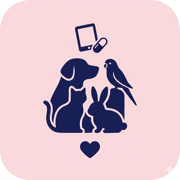
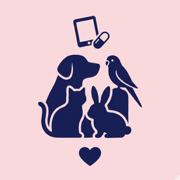
fix: PWAキャッシュ＋検査登録＋アイコン余白の複数修正 (#1114)
- public/sw.js: /api/schedules/today 等の読み取り系を network-first に変更 (mutation 後の表示が即時反映されない問題を修正)。CACHE_VERSION を v2 に bump し旧キャッシュは activate で破棄
- src/lib/api-helpers.ts: MAX_BODY_SIZE を 100KB → 2MB に拡大 (検査記録の画像 base64 が 100KB を超え 413 で silent failure していた)
- src/app/api/examinations/route.ts: POST 時に imageData を usecase に渡し漏れていたのを修正
- src/components/examinations/ExaminationForm.tsx: onSubmit を await し、エラー時は赤帯で表示。送信中は disable
- src/app/icon.{png,svg} / apple-icon.png / favicon.ico / public/icon.* : 周囲の白余白を sips で 460/512 比率にトリミングしてピンク角丸が大きく見えるよう調整。SVG も新画像で再生成
- src/app/{login,signup,forgot-password,reset-password}/page.tsx: アイコン参照を /icon.png → /icon.svg に変更し unoptimized に (Next.js 画像最適化を経由しない=PWAキャッシュとも相性◎)
- public/icon.svg: PWA manifest が参照できる場所にコピー

diff --git a/src/components/examinations/ExaminationForm.tsx b/src/components/examinations/ExaminationForm.tsx
@@ -15,7 +15,7 @@ export interface ExaminationFormData {
 
 interface ExaminationFormProps {
   members: Member[];
-  onSubmit: (data: ExaminationFormData) => void;
+  onSubmit: (data: ExaminationFormData) => Promise<void> | void;
   onCancel?: () => void;
   initialData?: {
     memberId: string;
@@ -72,6 +72,8 @@ export const ExaminationForm: React.FC<ExaminationFormProps> = ({ members, onSub
   const [notes, setNotes] = useState(initialData?.notes || '');
   const [imageData, setImageData] = useState<string | null>(initialData?.imageData ?? null);
   const [imageError, setImageError] = useState('');
+  const [submitError, setSubmitError] = useState('');
+  const [isSubmitting, setIsSubmitting] = useState(false);
 
   const handleImageChange = async (e: React.ChangeEvent<HTMLInputElement>) => {
     const file = e.target.files?.[0];
@@ -94,25 +96,34 @@ export const ExaminationForm: React.FC<ExaminationFormProps> = ({ members, onSub
     e.target.value = '';
   };
 
-  const handleSubmit = (e: React.FormEvent) => {
+  const handleSubmit = async (e: React.FormEvent) => {
     e.preventDefault();
     if (!memberId || !examinationType.trim() || !examinedAt) return;
+    if (isSubmitting) return;
 
-    onSubmit({
-      memberId,
-      examinationType: examinationType.trim(),
-      examinedAt: new Date(examinedAt).toISOString(),
-      nextScheduledDate: nextScheduledDate ? new Date(nextScheduledDate).toISOString() : undefined,
-      notes: notes.trim() || undefined,
-      imageData: imageData ?? undefined,
-    });
+    setSubmitError('');
+    setIsSubmitting(true);
+    try {
+      await onSubmit({
+        memberId,
+        examinationType: examinationType.trim(),
+        examinedAt: new Date(examinedAt).toISOString(),
+        nextScheduledDate: nextScheduledDate ? new Date(nextScheduledDate).toISOString() : undefined,
+        notes: notes.trim() || undefined,
+        imageData: imageData ?? undefined,
+      });
 
-    if (!initialData) {
-      setExaminationType('');
-      setExaminedAt(new Date().toISOString().split('T')[0]);
-      setNextScheduledDate('');
-      setNotes('');
-      setImageData(null);
+      if (!initialData) {
+        setExaminationType('');
+        setExaminedAt(new Date().toISOString().split('T')[0]);
+        setNextScheduledDate('');
+        setNotes('');
+        setImageData(null);
+      }
+    } catch (err) {
+      setSubmitError(err instanceof Error ? err.message : '登録に失敗しました');
+    } finally {
+      setIsSubmitting(false);
     }
   };
 
@@ -227,18 +238,26 @@ export const ExaminationForm: React.FC<ExaminationFormProps> = ({ members, onSub
         {imageError && <p className="text-xs text-red-500 mt-1">{imageError}</p>}
       </div>
 
+      {submitError && (
+        <p className="text-sm text-red-600 bg-red-50 border border-red-200 rounded-lg px-3 py-2">
+          {submitError}
+        </p>
+      )}
+
       <div className="flex space-x-2">
         <button
           type="submit"
-          className="flex-1 bg-primary-600 text-white py-2 px-4 rounded-lg hover:bg-primary-700 transition-colors font-medium"
+          disabled={isSubmitting}
+          className="flex-1 bg-primary-600 text-white py-2 px-4 rounded-lg hover:bg-primary-700 transition-colors font-medium disabled:opacity-60 disabled:cursor-not-allowed"
         >
-          {initialData ? '更新する' : '登録する'}
+          {isSubmitting ? '送信中...' : initialData ? '更新する' : '登録する'}
         </button>
         {onCancel && (
           <button
             type="button"
             onClick={onCancel}
-            className="flex-1 bg-gray-200 text-gray-700 py-2 px-4 rounded-lg hover:bg-gray-300 transition-colors font-medium"
+            disabled={isSubmitting}
+            className="flex-1 bg-gray-200 text-gray-700 py-2 px-4 rounded-lg hover:bg-gray-300 transition-colors font-medium disabled:opacity-60"
           >
             キャンセル
           </button>

diff --git a/public/sw.js b/public/sw.js
@@ -1,17 +1,18 @@
 /* HealthFamily Service Worker
  *
  * 役割:
- *  - PWAインストール要件を満たす(install/fetch ハンドラ)
- *  - 静的アセットのキャッシュ
- *  - "今日の予定" APIを stale-while-revalidate でキャッシュ → 圏外でも直近データ閲覧可
- *  - GET 以外、認証ページ、Server Action 等は素通し
+ *  - PWAインストール要件を満たす (install/fetch ハンドラ)
+ *  - 静的アセットを cache-first で配信
+ *  - "今日の予定" APIなど読み取り系は network-first でキャッシュは
+ *    オフライン時のフォールバックとしてのみ使用 → mutation 後の表示が即時に反映される
+ *  - GET 以外, 認証, mutation 系 API は素通し
  */
 
-const CACHE_VERSION = 'health-family-v1';
+const CACHE_VERSION = 'health-family-v2';
 const STATIC_CACHE = `${CACHE_VERSION}-static`;
 const RUNTIME_CACHE = `${CACHE_VERSION}-runtime`;
 
-const STATIC_ASSETS = ['/', '/icon.png', '/apple-icon.png', '/manifest.webmanifest'];
+const STATIC_ASSETS = ['/', '/icon.svg', '/icon.png', '/apple-icon.png', '/manifest.webmanifest'];
 
 self.addEventListener('install', (event) => {
   event.waitUntil(
@@ -35,7 +36,12 @@ self.addEventListener('activate', (event) => {
   self.clients.claim();
 });
 
-const isCacheableApi = (url) => url.pathname === '/api/schedules/today';
+const isCacheableApi = (url) =>
+  url.pathname === '/api/schedules/today' ||
+  url.pathname === '/api/schedules/missed' ||
+  url.pathname === '/api/medications/alerts' ||
+  url.pathname === '/api/records/stats';
+
 const isAuthRoute = (url) =>
   url.pathname.startsWith('/api/auth/') ||
   url.pathname === '/login' ||
@@ -54,19 +60,20 @@ self.addEventListener('fetch', (event) => {
 
   if (url.pathname.startsWith('/api/')) {
     if (!isCacheableApi(url)) return;
+    // network-first: 通常はネットワーク, 失敗時のみキャッシュにフォールバック
     event.respondWith(
       (async () => {
-        const cache = await caches.open(RUNTIME_CACHE);
-        const networkPromise = fetch(request)
-          .then((response) => {
-            if (response && response.ok) {
-              cache.put(request, response.clone()).catch(() => undefined);
-            }
-            return response;
-          })
-          .catch(() => undefined);
-        const cached = await cache.match(request);
-        return cached || (await networkPromise) || Response.error();
+        try {
+          const response = await fetch(request);
+          if (response && response.ok) {
+            const cache = await caches.open(RUNTIME_CACHE);
+            cache.put(request, response.clone()).catch(() => undefined);
+          }
+          return response;
+        } catch {
+          const cached = await caches.match(request);
+          return cached || Response.error();
+        }
       })(),
     );
     return;

diff --git a/src/__tests__/components/examinations/ExaminationForm.test.tsx b/src/__tests__/components/examinations/ExaminationForm.test.tsx
@@ -1,5 +1,5 @@
 import { describe, it, expect, vi, beforeEach } from 'vitest';
-import { render, screen, fireEvent } from '@testing-library/react';
+import { render, screen, fireEvent, waitFor } from '@testing-library/react';
 import { ExaminationForm } from '@/components/examinations/ExaminationForm';
 import { Member } from '@/domain/entities/Member';
 
@@ -85,11 +85,13 @@ describe('ExaminationForm', () => {
     expect(screen.getByDisplayValue('CT検査')).toBeInTheDocument();
   });
 
-  it('送信後にフォームがリセットされる（新規登録時）', () => {
+  it('送信後にフォームがリセットされる（新規登録時）', async () => {
     render(<ExaminationForm members={members} onSubmit={mockOnSubmit} />);
     fireEvent.change(screen.getByLabelText('メンバー'), { target: { value: 'member-1' } });
     fireEvent.change(screen.getByLabelText('検査の種類'), { target: { value: 'テスト' } });
     fireEvent.click(screen.getByText('登録する'));
-    expect((screen.getByLabelText('検査の種類') as HTMLInputElement).value).toBe('');
+    await waitFor(() => {
+      expect((screen.getByLabelText('検査の種類') as HTMLInputElement).value).toBe('');
+    });
   });
 });

diff --git a/src/app/forgot-password/page.tsx b/src/app/forgot-password/page.tsx
@@ -42,7 +42,7 @@ export default function ForgotPassword() {
     <div className="min-h-screen flex items-center justify-center bg-pink-50/30 px-4">
       <div className="max-w-md w-full space-y-8">
         <div className="text-center">
-          <Image src="/icon.png" alt="HealthFamily" width={80} height={80} className="mx-auto mb-2" />
+          <Image src="/icon.svg" alt="HealthFamily" width={80} height={80} className="mx-auto mb-2" unoptimized />
           <h1 className="text-3xl font-bold text-primary-600">HealthFamily</h1>
           <p className="mt-2 text-gray-500">パスワードの再設定</p>
         </div>

diff --git a/src/app/reset-password/page.tsx b/src/app/reset-password/page.tsx
@@ -71,7 +71,7 @@ function ResetPasswordContent() {
     <div className="min-h-screen flex items-center justify-center bg-pink-50/30 px-4">
       <div className="max-w-md w-full space-y-8">
         <div className="text-center">
-          <Image src="/icon.png" alt="HealthFamily" width={80} height={80} className="mx-auto mb-2" />
+          <Image src="/icon.svg" alt="HealthFamily" width={80} height={80} className="mx-auto mb-2" unoptimized />
           <h1 className="text-3xl font-bold text-primary-600">HealthFamily</h1>
           <p className="mt-2 text-gray-500">新しいパスワードの設定</p>
         </div>

diff --git a/src/app/signup/page.tsx b/src/app/signup/page.tsx
@@ -46,7 +46,7 @@ export default function SignUp() {
     <div className="min-h-screen flex items-center justify-center bg-pink-50/30 px-4">
       <div className="max-w-md w-full space-y-8">
         <div className="text-center">
-          <Image src="/icon.png" alt="HealthFamily" width={80} height={80} className="mx-auto mb-2" />
+          <Image src="/icon.svg" alt="HealthFamily" width={80} height={80} className="mx-auto mb-2" unoptimized />
           <h1 className="text-3xl font-bold text-primary-600">HealthFamily</h1>
           <p className="mt-2 text-gray-500">新規登録</p>
         </div>

diff --git a/src/app/login/page.tsx b/src/app/login/page.tsx
@@ -43,7 +43,7 @@ export default function Login() {
     <div className="min-h-screen flex items-center justify-center bg-pink-50/30 px-4">
       <div className="max-w-md w-full space-y-8">
         <div className="text-center">
-          <Image src="/icon.png" alt="HealthFamily" width={80} height={80} className="mx-auto mb-2" />
+          <Image src="/icon.svg" alt="HealthFamily" width={80} height={80} className="mx-auto mb-2" unoptimized />
           <h1 className="text-3xl font-bold text-primary-600">HealthFamily</h1>
           <p className="mt-2 text-gray-500">ログイン</p>
         </div>

diff --git a/src/__tests__/lib/api-helpers.test.ts b/src/__tests__/lib/api-helpers.test.ts
@@ -203,7 +203,7 @@ describe('validateBodySize', () => {
   it('Content-Lengthが制限を超える場合413を返す', () => {
     const request = new Request('http://localhost', {
       method: 'POST',
-      headers: { 'content-length': String(200 * 1024) },
+      headers: { 'content-length': String(3 * 1024 * 1024) },
     });
     const result = validateBodySize(request);
     expect(result).not.toBeNull();

diff --git a/src/lib/api-helpers.ts b/src/lib/api-helpers.ts
@@ -115,7 +115,7 @@ export async function safeParseJson(request: Request): Promise<{ data: unknown }
   }
 }
 
-const MAX_BODY_SIZE = 100 * 1024; // 100KB
+const MAX_BODY_SIZE = 2 * 1024 * 1024; // 2MB (検査記録の画像 base64 を許容)
 
 export function validateBodySize(request: Request): Response | null {
   const contentLength = request.headers.get('content-length');

diff --git a/src/app/api/examinations/route.ts b/src/app/api/examinations/route.ts
@@ -41,6 +41,7 @@ export async function POST(request: Request) {
       examinedAt: parsed.data.examinedAt,
       nextScheduledDate: parsed.data.nextScheduledDate,
       notes: parsed.data.notes,
+      imageData: parsed.data.imageData ?? undefined,
     });
     return created(examination);
   })();
